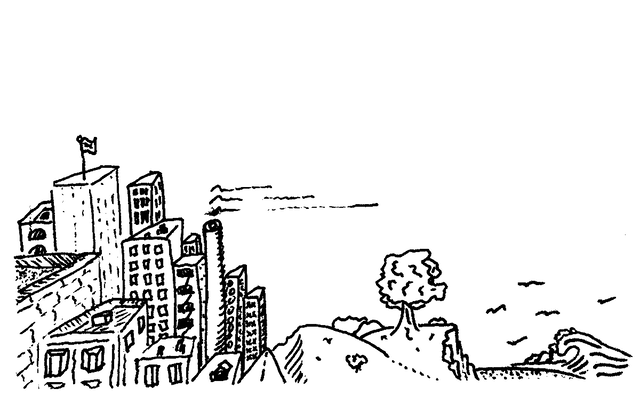
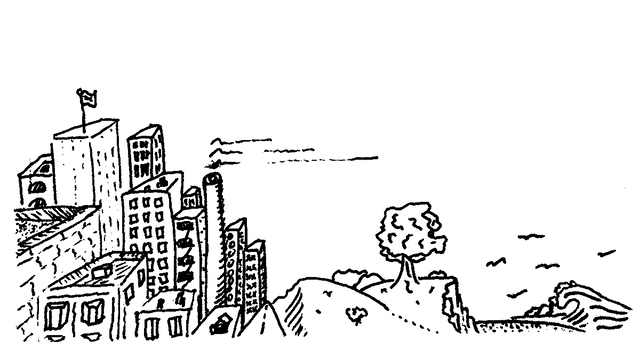
reworded and updated sketch

diff --git a/index.html b/index.html
@@ -7,7 +7,7 @@
     <title>@siznax 書梯</title>
   </head>
   <body>
-    <div id="hello"><table cellpadding="8"><tr><td><img alt="gravatar" width="96" height="96" src="http://1.gravatar.com/avatar/c5a14af33c0481a32728fba962793ffa?s=240"></td><td>Hi, I'm Steve. I program <a href="https://siznax.github.io/">computers</a> and <a href="https://siznax.tumblr.com/tagged/travel/">travel</a> and read. You can usually find me in a library or museum, or you can reach me by my first name at <i>siznax.net</i> and elsewhere <a href="https://twitter.com/siznax">@siznax</a>.</td></tr><tr><td colspan="2">I have a special interest in Japanese woodblock prints (<a href="http://ukiyo-e.org/"><i>ukiyo-e</i></a>). I watch sumo every odd month and <a href="https://siznax.github.io/honbasho">archive</a> highlights. I sometimes try to make art, and enjoy making <a href="https://soundcloud.com/glakthron">sounds</a> and field recordings. I <a href="https://siznax.tumblr.com/">post</a> things I find interesting and would be happy to exchange postcards with you. <span style="font-size:0.8em;margin-left:0.4em;">ཨོཾ་མ་ཎི་པདྨེ་ཧཱུྃ</span></td></tr></table></div>
+    <div id="hello"><table cellpadding="8"><tr><td><img alt="gravatar" width="96" height="96" src="http://1.gravatar.com/avatar/c5a14af33c0481a32728fba962793ffa?s=240"></td><td>Hi, I'm Steve. I program <a href="https://siznax.github.io/">computers</a> and <a href="https://siznax.tumblr.com/tagged/travel/">travel</a> and read. You can usually find me in a library or museum, or you can reach me by my first name at <i>siznax.net</i> and elsewhere <a href="https://twitter.com/siznax">@siznax</a>.</td></tr><tr><td colspan="2">I have a special interest in Japanese woodblock prints (<a href="http://ukiyo-e.org/"><i>ukiyo-e</i></a>). I watch sumo every odd month and <a href="https://siznax.github.io/honbasho">archive</a> highlights. I sometimes make art, and enjoy making <a href="https://soundcloud.com/glakthron">sounds</a> and field recordings. I post things I find interesting on a <a href="https://siznax.tumblr.com/">tumblelog</a>. I love receiving postcards and would be happy to exchange one with you.<div style="float:right;margin-top:1em;">ཨོཾ་མ་ཎི་པདྨེ་ཧཱུྃ</div></td></tr></table></div>
     <div id="sketch"><img alt="sketch" src="sketch.png" width="500"></div>
   </body>
 </html>
